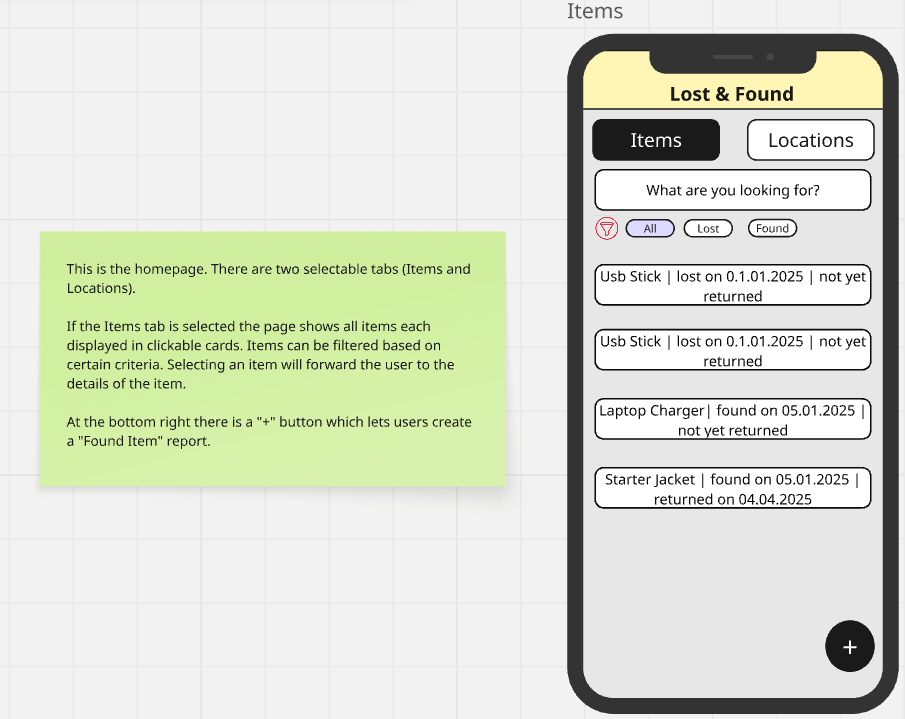
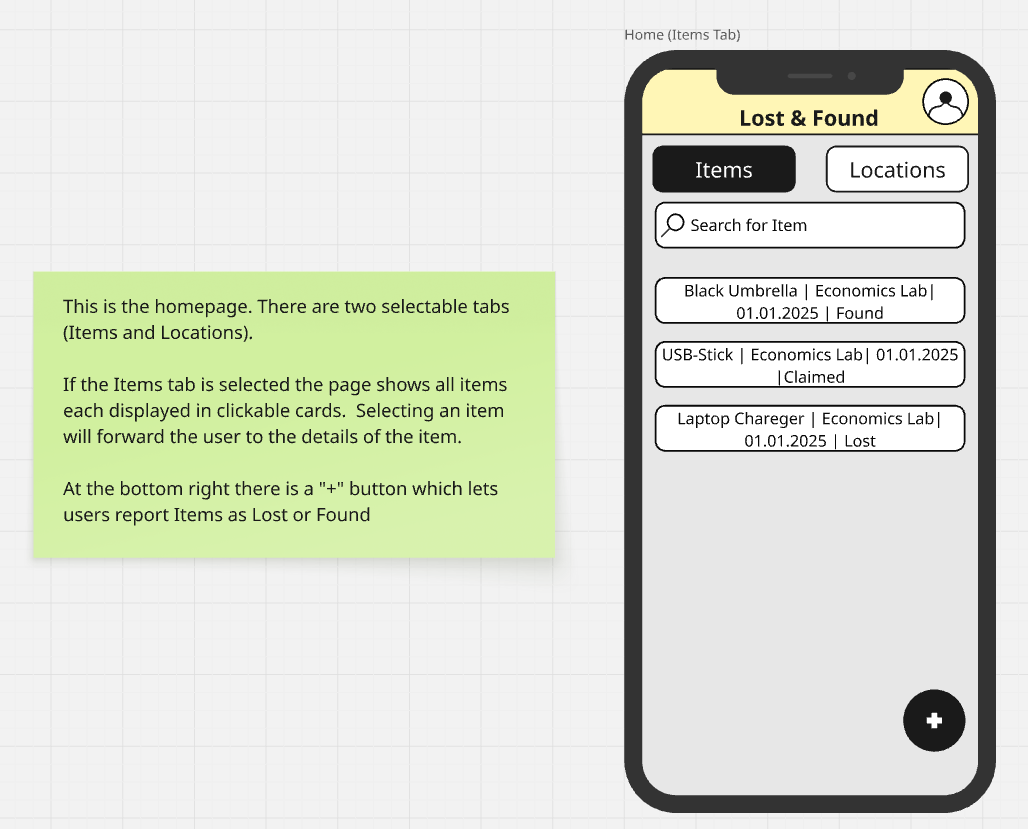
feat: update documentation images and enhance planning specifications

Changed region(s): [[0.5878, 0.0, 1.0, 1.0], [0.0309, 0.306, 0.5569, 0.7038]]

diff --git a/documentation/planning_and_specification.md b/documentation/planning_and_specification.md
@@ -23,9 +23,8 @@ Misplaced belongings are a common issue on large campuses. This app simplifies a
 
 ## 🧩 Resource Description
 
-
 | Resource    | Description                                                | Relationships                                 |
-| ------------- | ------------------------------------------------------------ | ----------------------------------------------- |
+| ----------- | ---------------------------------------------------------- | --------------------------------------------- |
 | `items`     | Data about found objects (name, brand, color, photo, etc.) | Linked to one`location`, created via `report` |
 | `reports`   | Submission of a found item by a user                       | Creates a new`item`, references `location`    |
 | `locations` | Campus areas (e.g., library, cafeteria, lecture hall)      | Can have many`items`                          |
@@ -41,7 +40,7 @@ Misplaced belongings are a common issue on large campuses. This app simplifies a
 As an interested user, I want to receive general information about the Lost & Found app, so that I can decide whether or not it is useful.
 
 **Affected Resources:**
-*(none)*
+_(none)_
 
 **Planned Implementation:**
 Static homepage with an overview of functionality, benefits, and how to contribute.
@@ -167,20 +166,32 @@ As a user who has retrieved their missing item, I want to delete the report, so 
 The following are the key wireframes representing the core user interface of the app:
 
 1. **Home (Items Tab)**
-   Displays a searchable list of all found items. Users can filter by "All", "Lost", or "Found", and select individual items to view more details.
+   Displays a searchable list of all found items. Users can search for items and select individual items to view more details.
    ![Home Items](images/home_items.png)
 2. **Home (Locations Tab)**
-   Lists all predefined campus locations where items were found. Each location can be selected to view associated items.
+   Lists all predefined campus locations where items were found or lost. Users can search for locations and select individual locations to view more details.
    ![Home Locations](images/home_locations.png)
-3. **Report Found Item Form**
-   Form for reporting a found item, including fields for name, description, location (dropdown), date, time, and image upload.
-   ![Report Item](images/report_items.png)
-4. **Location Detail Page**
-   Shows all items found at a specific location, listed by name and found date.
-   ![Details Location](images/details_location.png)
-5. **Item Detail Page**
-   Displays full item details: brand, color, location, image, and includes action buttons like "Claim".
-   ![Details Item](images/details_item.png)
+3. **User Profile**
+   Allows editing of User Data.
+   ![User Profile](images/user_profile.png)
+4. **Report Item**
+   Allows reporting of lost or found items.
+   ![Report Item](images/report_item.png)
+5. **Item Details**
+   Displays item details and allows for deleting, editing and claiming the item.
+   ![Item Details](images/item_details.png)
+6. **Edit Item**
+   Allows for editing previously reported items.
+   ![Edit Item](images/edit_item.png)
+7. **Add Location**
+   Allows adding of new locations.
+   ![Add Location](images/add_location.png)
+8. **Location Details**
+   Displays location details and allows for deleting and editing the location.
+   ![Location Details](images/location_details.png)
+9. **Edit Location**
+   Allows for editing previously added locations.
+   ![Edit Location](images/edit_location.png)
 
 ---
 
